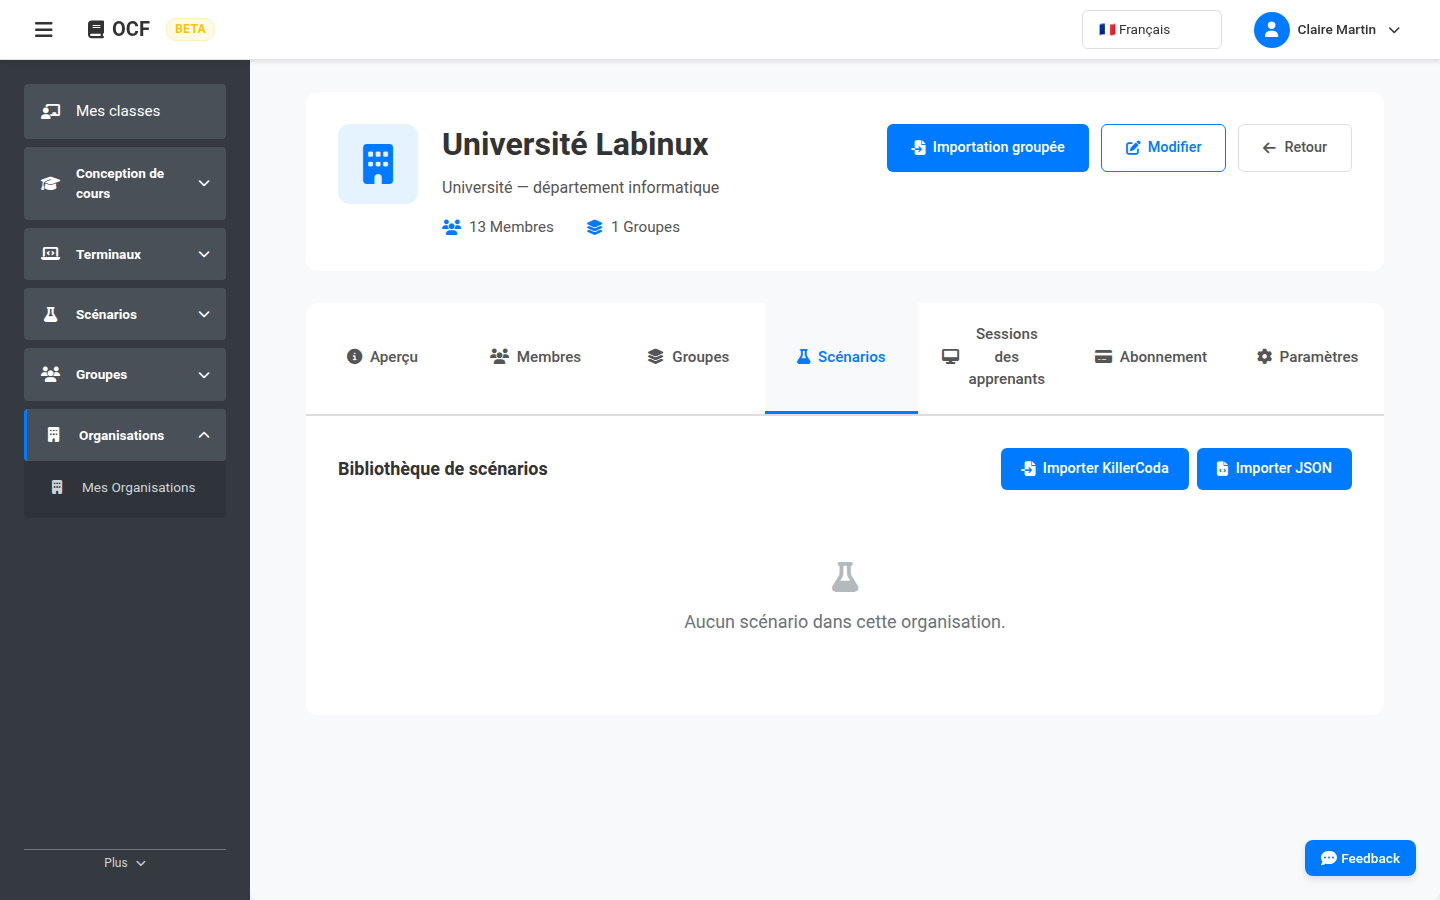
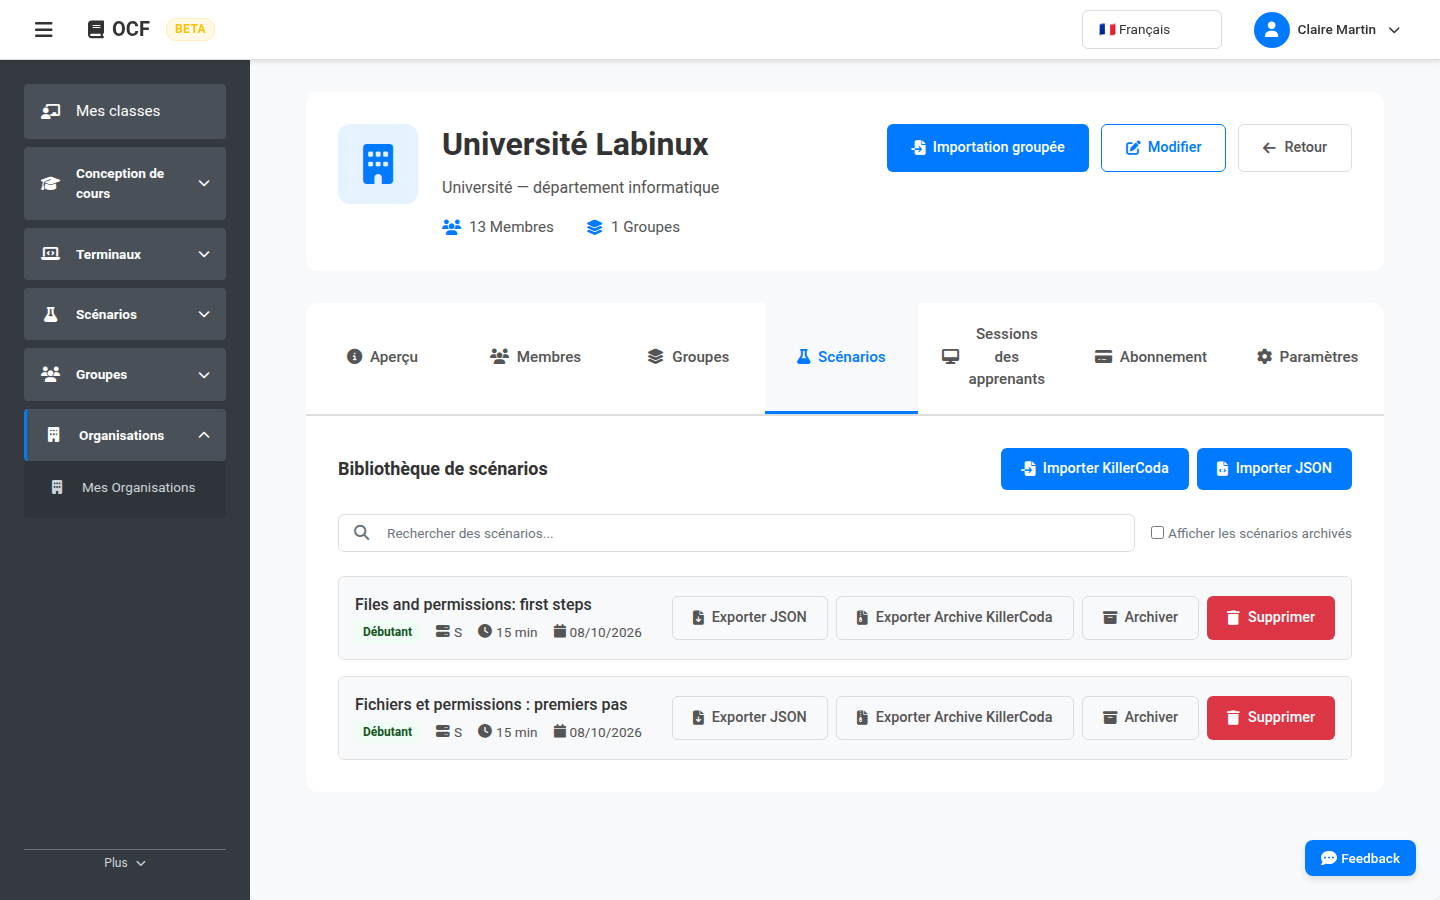
test(e2e): photograph the scenario workbench and ai authoring for the docs
The docs fixture now gives the trainer's organization its own scenario per
locale, so the editor is shot editable instead of as a read-only platform
scenario. New screens: ai create, ai prompt, step library, verify templates.
A SHOT= run whose screens need no live terminal no longer launches any.

diff --git a/e2e/docs-screenshots.spec.ts b/e2e/docs-screenshots.spec.ts
@@ -4,6 +4,7 @@ import { login } from './helpers/auth';
 import { waitForLiveTerminal, typeInTerminal } from './helpers/xterm';
 import { apiLogin } from './helpers/paymentApi';
 import { DOCS_PASSWORD, LEARNERS, TRAINER, ensureDocsFixture, type DocsFixture } from './helpers/docsFixture';
+import { EXAMPLE_SCENARIOS } from '../src/utils/scenarioAiPrompt';
 
 /**
  * Documentation screenshots.
@@ -37,6 +38,8 @@ interface Screen {
   fullPage?: boolean;
   /** Anything to do on the page before the shot (open a modal, pick a tab…). */
   prepare?: (page: Page) => Promise<void>;
+  /** Needs running terminals: without one selected, a `SHOT=` run launches none. */
+  live?: true;
 }
 
 const API_BASE = process.env.OCF_API_URL || 'http://localhost:8080/api/v1';
@@ -59,8 +62,8 @@ const SCREENS: Screen[] = [
   // Trainer — day-to-day
   // The class first: its terminals go quiet a couple of minutes after the warm-up.
   { name: 'my-classes', path: '/my-classes', as: 'trainer' },
-  { name: 'class-live', path: (f) => `/classes/${f.classId}/live`, as: 'trainer', fullPage: true },
-  { name: 'class-wall', path: (f) => `/classes/${f.classId}/live?view=wall`, as: 'trainer', settle: 4_000, fullPage: true },
+  { name: 'class-live', path: (f) => `/classes/${f.classId}/live`, as: 'trainer', fullPage: true, live: true },
+  { name: 'class-wall', path: (f) => `/classes/${f.classId}/live?view=wall`, as: 'trainer', settle: 4_000, fullPage: true, live: true },
   { name: 'class-members', path: (f) => `/classes/${f.classId}/members`, as: 'trainer' },
   { name: 'class-scenarios', path: (f) => `/classes/${f.classId}/scenarios`, as: 'trainer' },
   {
@@ -94,6 +97,7 @@ const SCREENS: Screen[] = [
     // The session was started with the network feature, so the chip is unlocked;
     // exposing a port here is exactly what a learner does to show a web app.
     name: 'terminal-exposed-port',
+    live: true,
     path: (f) => f.trainerTerminalId && `/terminal-session/${f.trainerTerminalId}`,
     as: 'trainer',
     prepare: async (page) => {
@@ -120,6 +124,7 @@ const SCREENS: Screen[] = [
   },
   {
     name: 'terminal-session',
+    live: true,
     path: (f) => f.trainerTerminalId && `/terminal-session/${f.trainerTerminalId}`,
     as: 'trainer',
     prepare: async (page) => {
@@ -130,17 +135,43 @@ const SCREENS: Screen[] = [
       await page.waitForTimeout(800);
     },
   },
+  { name: 'scenario-editor', path: '/scenario-editor', as: 'trainer', prepare: openOwnScenario },
   {
-    name: 'scenario-editor',
+    name: 'scenario-verify-checks',
     path: '/scenario-editor',
     as: 'trainer',
     prepare: async (page) => {
-      const select = page.getByTestId('scenario-picker');
-      await select.waitFor({ state: 'visible', timeout: 10_000 });
-      // The fixture's GameShell — the class assignment is what lets her manage it.
-      const value = await select.locator('option', { hasText: /gameshell/i }).first().getAttribute('value');
-      if (value) await select.selectOption(value);
-      await page.waitForTimeout(2_500);
+      await openOwnScenario(page);
+      await page.locator('#tab-verify').click();
+      await page.getByTestId('verify-template-menu').click();
+      await page.waitForTimeout(500);
+    },
+  },
+  {
+    name: 'scenario-step-library',
+    path: '/scenario-editor',
+    as: 'trainer',
+    prepare: async (page) => {
+      await openOwnScenario(page);
+      await page.getByTestId('rail-strip-library').click();
+      await page.locator('[data-testid^="step-library-scenario-"]', { hasText: /gameshell/i }).first().click();
+      const picks = page.locator('[data-testid^="step-library-pick-"]');
+      await picks.nth(1).waitFor({ state: 'visible', timeout: 10_000 });
+      await picks.nth(1).check();
+      await picks.nth(2).check();
+      await page.locator('[data-testid^="step-library-preview-"]').nth(2).click();
+      await page.waitForTimeout(800);
+    },
+  },
+  { name: 'scenario-ai-create', path: '/scenario-editor', as: 'trainer', prepare: (page) => openAiCreate(page) },
+  {
+    name: 'scenario-ai-prompt',
+    path: '/scenario-editor',
+    as: 'trainer',
+    prepare: async (page) => {
+      await openAiCreate(page);
+      await page.getByTestId('scenario-ai-next').click();
+      await page.getByTestId('scenario-ai-step-prompt').waitFor({ timeout: 10_000 });
     },
   },
   { name: 'scenarios-catalogue', path: '/scenarios', as: 'trainer', fullPage: true },
@@ -184,6 +215,7 @@ const SCREENS: Screen[] = [
   { name: 'learner-terminal-creation', path: '/terminal-creation', as: 'learner', fullPage: true },
   {
     name: 'learner-scenario-player',
+    live: true,
     path: (f) => f.learnerTerminalId && `/terminal-session/${f.learnerTerminalId}`,
     as: 'learner',
     // GameShell opens on a briefing step, so the terminal may not be live yet:
@@ -247,6 +279,40 @@ function clearStaleShells(terminalId: string): void {
   } catch {
     /* no incus here, or the container is gone — the warm-up will say so on its own */
   }
+}
+
+async function pageLocale(page: Page): Promise<Locale> {
+  return ((await page.evaluate(() => localStorage.getItem('ocf-user-locale'))) as Locale) || 'fr';
+}
+
+/** The editor on the organization's own scenario, in the locale being photographed: editable, not a read-only platform one. */
+async function openOwnScenario(page: Page): Promise<void> {
+  const select = page.getByTestId('scenario-picker');
+  await select.waitFor({ state: 'visible', timeout: 10_000 });
+  const title = EXAMPLE_SCENARIOS[await pageLocale(page)].title;
+  const value = await select.locator('option', { hasText: title }).first().getAttribute('value');
+  if (value) await select.selectOption(value);
+  await page.getByTestId('outline-scenario-card').waitFor({ state: 'visible', timeout: 15_000 });
+  await page.waitForTimeout(1_500);
+}
+
+const AI_BRIEF: Record<Locale, string> = {
+  fr: "Mettre en ligne un site statique avec nginx : installer le paquet, déposer la page d'accueil, vérifier que le port 80 répond. Un drapeau caché dans les journaux pour finir.",
+  en: 'Serve a static site with nginx: install the package, drop the home page, check that port 80 answers. A flag hidden in the logs to finish.',
+};
+
+/** "Create with AI", step 1 filled the way a teacher would: what to write, for whom, where. */
+async function openAiCreate(page: Page): Promise<void> {
+  await page.getByTestId('scenario-picker').waitFor({ state: 'visible', timeout: 10_000 });
+  await page.getByTestId('scenario-import-menu').click();
+  await page.getByTestId('scenario-import-menu-ai').click();
+  await page.locator('#ai-description').fill(AI_BRIEF[await pageLocale(page)]);
+  await page.locator('#ai-step-count').fill('4');
+  await page.locator('.ocf-ai-types input[value="flag"]').check();
+  const destination = page.locator('#ai-destination');
+  const school = await destination.locator('option', { hasText: 'Labinux' }).first().getAttribute('value');
+  if (school) await destination.selectOption(school);
+  await page.waitForTimeout(500);
 }
 
 /** "My usage" is collapsed on some pages and open on others; end up open either way. */
@@ -316,7 +382,7 @@ test.describe.configure({ mode: 'serial' });
 let fixture: DocsFixture;
 
 test.beforeAll(async () => {
-  fixture = await ensureDocsFixture();
+  fixture = await ensureDocsFixture(selected.some((s) => s.live));
 });
 
 /**

diff --git a/e2e/helpers/docsFixture.ts b/e2e/helpers/docsFixture.ts
@@ -2,6 +2,7 @@ import { apiLogin, getCatalogPlans, type ApiSession } from './paymentApi';
 import { getOrganizations, type ApiOrganization } from './platformApi';
 import { createGroupAssignment, findTeacherGroup, getMyScenarioSessions, getUserId, launchScenarioSession } from './scenarioApi';
 import { verifyEmailViaToken } from './freshUsers';
+import { EXAMPLE_SCENARIOS } from '../../src/utils/scenarioAiPrompt';
 
 /**
  * The "Université Labinux" fixture behind the documentation screenshots.
@@ -170,6 +171,19 @@ async function ensureAssignments(trainer: ApiSession, groupId: string): Promise<
 }
 
 /**
+ * A scenario the trainer's organization owns, one per locale, so the editor is
+ * photographed editable rather than as a read-only platform scenario. The
+ * content is the example the AI prompt ships: what a teacher's assistant writes.
+ */
+async function ensureOwnScenarios(trainer: ApiSession, orgId: string): Promise<void> {
+  const owned = rows(await getJson(trainer, `/organizations/${orgId}/scenarios`));
+  for (const scenario of Object.values(EXAMPLE_SCENARIOS)) {
+    if (owned.some((s) => s.title === scenario.title)) continue;
+    await postJson(trainer, `/organizations/${orgId}/scenarios/import-json`, scenario);
+  }
+}
+
+/**
  * Ten learners in the middle of the GameShell scenario, so the class page has
  * something live to show and the player screenshot is a real container, not an
  * empty frame. Sessions are reused while open and relaunched once they expire.
@@ -242,7 +256,8 @@ export interface DocsFixture {
   trainerTerminalId?: string;
 }
 
-export async function ensureDocsFixture(): Promise<DocsFixture> {
+/** `withSessions` false: no terminal is launched, for runs that photograph nothing live. */
+export async function ensureDocsFixture(withSessions = true): Promise<DocsFixture> {
   const admin = await apiLogin(ADMIN_EMAIL, ADMIN_PASSWORD);
   const plans = await getCatalogPlans(admin);
   const planId = (name: string) => {
@@ -256,7 +271,8 @@ export async function ensureDocsFixture(): Promise<DocsFixture> {
   const orgId = await ensureOrg(admin, trainer, planId(ORG_PLAN));
   const classId = await ensureClass(trainer, orgId);
   await ensureAssignments(trainer, classId);
-  const learnerTerminalIds = await ensureLearnerSessions(orgId);
-  const trainerTerminalId = await ensureTrainerTerminal(trainer, orgId);
+  await ensureOwnScenarios(trainer, orgId);
+  const learnerTerminalIds = withSessions ? await ensureLearnerSessions(orgId) : [];
+  const trainerTerminalId = withSessions ? await ensureTrainerTerminal(trainer, orgId) : undefined;
   return { orgId, classId, learnerTerminalId: learnerTerminalIds[0], learnerTerminalIds, trainerTerminalId };
 }
